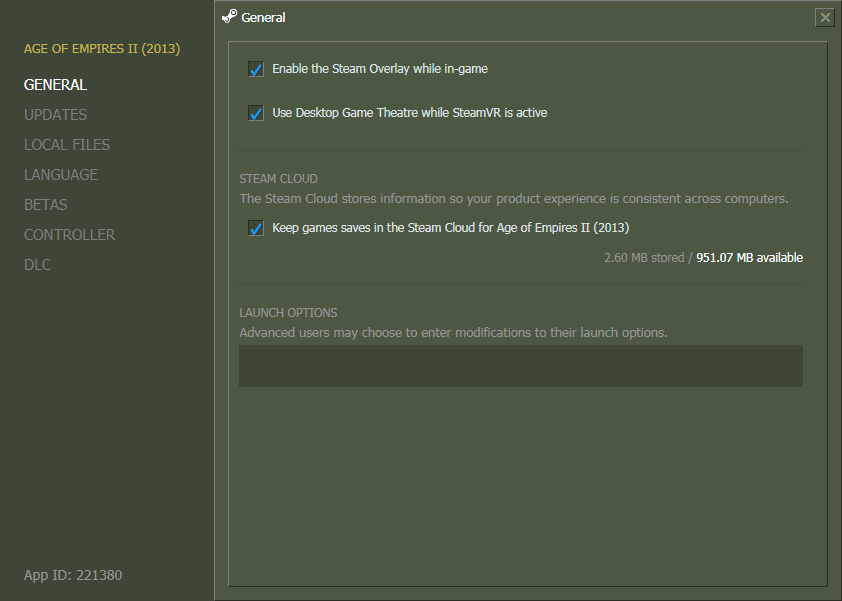
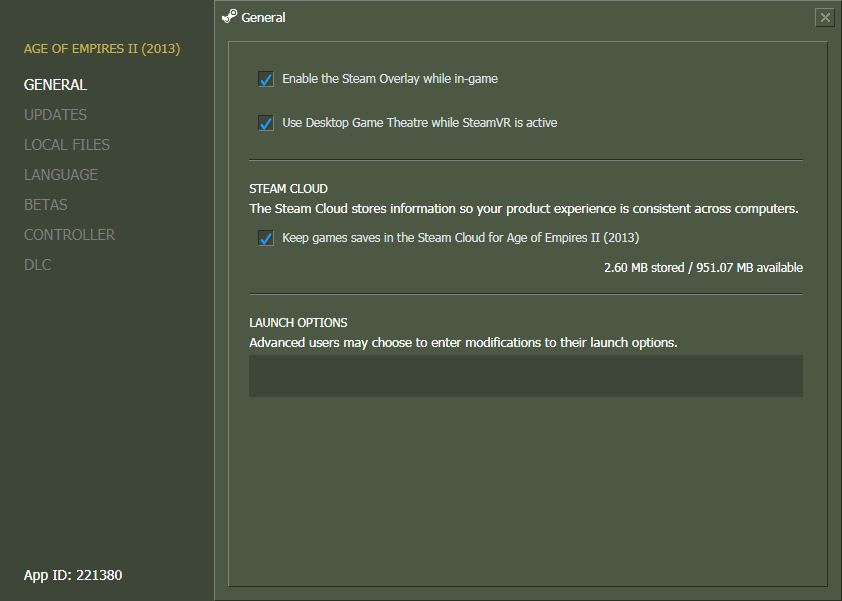
Minor tweaks

diff --git a/Copy contents to steamui folder/libraryroot.custom.css b/Copy contents to steamui folder/libraryroot.custom.css
@@ -2802,7 +2802,7 @@ button.appdetailsheader_ExitEditModeButton_i7jBC.appdetailsheader_ExitEditModeBu
   border-width: 1px;
   border-color: #808080 #282e22 #282e22 #808080;
   margin: -10px 6px 6px 6px;
-  padding: 10px; }
+  padding: 20px 10px 10px 20px; }
   .appproperties_AppProperties_1FyBL .appproperties_Page_1SvWY.appproperties_NoScroll_3puO0 {
     overflow-y: hidden; }
   .appproperties_AppProperties_1FyBL .appproperties_Page_1SvWY::-webkit-scrollbar-thumb {
@@ -2813,7 +2813,8 @@ button.appdetailsheader_ExitEditModeButton_i7jBC.appdetailsheader_ExitEditModeBu
     background-clip: padding-box; }
   .appproperties_AppProperties_1FyBL .appproperties_Page_1SvWY .appproperties_SectionTopLine_r3hOL {
     margin-top: 20px;
-    border-top: solid rgba(59, 63, 72, 0.5) 1px;
+	box-shadow: 0 -1px 0 #282e22;
+    border-top: 1px solid #808080;
     padding-top: 20px; }
   .appproperties_AppProperties_1FyBL .appproperties_Page_1SvWY .appproperties_BlueHighlight_1KmR8 {
     color: #fff; }
@@ -2897,7 +2898,8 @@ button.appdetailsheader_ExitEditModeButton_i7jBC.appdetailsheader_ExitEditModeBu
       color: #dfe3e6; }
   .appproperties_AppProperties_1FyBL .appproperties_Page_1SvWY .appproperties_DlcTopRow_ZII4C {
     display: flex;
-    flex-direction: row; }
+    flex-direction: row;
+	margin-right: 10px; }
     .appproperties_AppProperties_1FyBL .appproperties_Page_1SvWY .appproperties_DlcTopRow_ZII4C .appproperties_ViewMore_3jITh {
       flex: 1 1 0;
       margin: 0 10px 0 0; }
@@ -2912,7 +2914,9 @@ button.appdetailsheader_ExitEditModeButton_i7jBC.appdetailsheader_ExitEditModeBu
 	background: #3e4637;
 	border-style: solid;
 	border-width: 1px;
-	border-color: #282e22 #808080 #808080 #282e22; }
+	border-color: #282e22 #808080 #808080 #282e22;
+	margin-right: 10px;
+	margin-bottom: 10px; }
     .appproperties_AppProperties_1FyBL .appproperties_Page_1SvWY .appproperties_DlcGrid_3sXdO::-webkit-scrollbar-thumb {
       background-color: #4c5844;
       background-clip: padding-box; }
@@ -22626,7 +22630,7 @@ button.DialogButton::-moz-focus-inner {
   box-shadow: 0px 8px 38px 5px rgba(0, 0, 0, 0.75);
   margin: auto;
   font-weight: 300;
-  color: #969696;
+  color: #fff;
   font-size: 16px;
   position: relative;
   display: flex;
